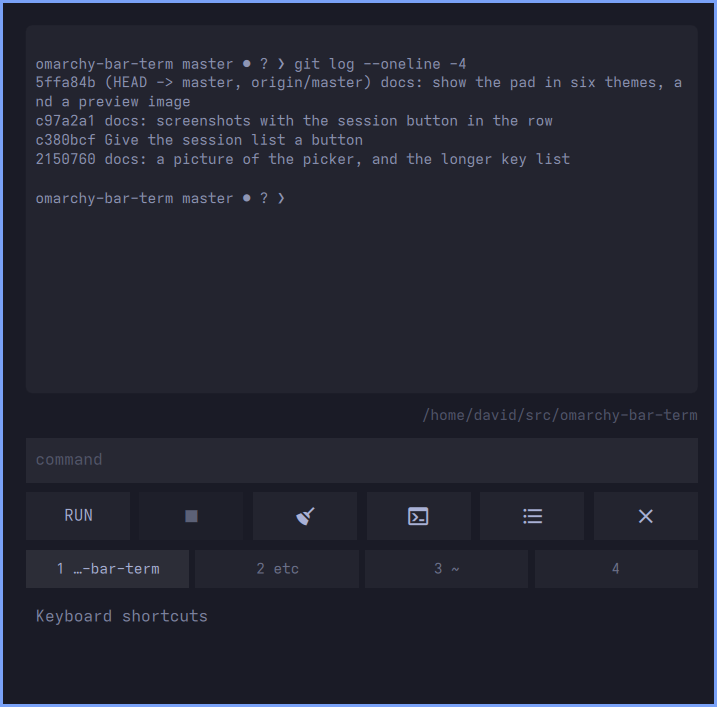
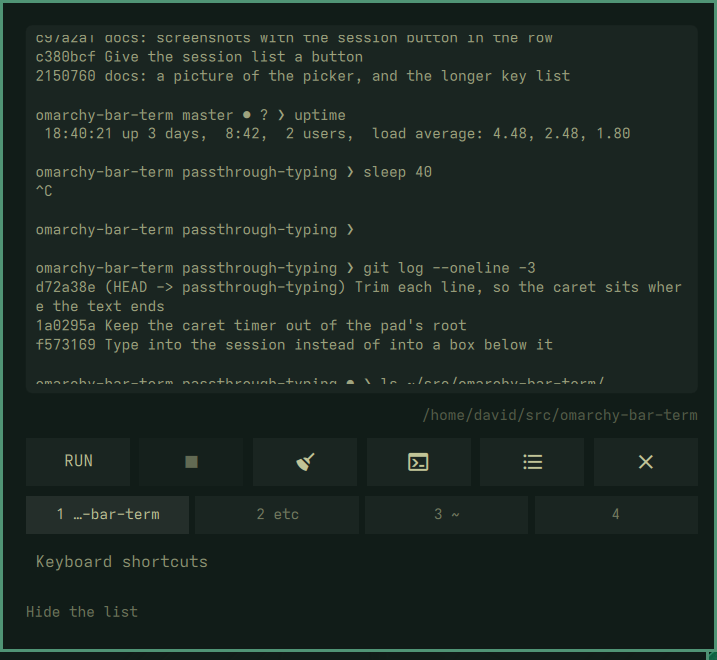
Let the broom clear the scrollback, and land on a whole line
Ctrl+L reaching the shell clears its screen, which leaves the pad showing the
200 lines it reads back: the button looked like it did nothing. The key still
passes through and does the shell's thing; the button now drops the scrollback
as well, which is what pressing a broom in a widget means.

The newest line was also being left half-drawn under the bottom edge, because
the lines wrap and a delegate's height is not known at the moment the model
changes. Positioning again on contentHeight fixes it.

Claude-Session: https://claude.ai/code/session_01NsuTX3xQbZ1pzCFMGiucjP

diff --git a/Bindings.qml b/Bindings.qml
@@ -18,7 +18,11 @@ Item {
   readonly property var keyMap: [
     { id: "run",      keys: [], hint: "Enter",  shell: true, label: "Run what you typed",    act: function() { panel.sendKey("Enter") } },
     { id: "kill",     keys: [], hint: "Ctrl+C", shell: true, label: "Interrupt",             act: function() { panel.sendKey("C-c") } },
-    { id: "clear",    keys: [], hint: "Ctrl+L", shell: true, label: "Clear the screen",      act: function() { panel.sendKey("C-l") } },
+    // The key and the button differ on purpose. Ctrl+L reaches the shell and
+    // clears its screen, which leaves the pad still showing the scrollback it
+    // reads back; the button drops the scrollback as well, which is what someone
+    // pressing a broom in a widget means by it.
+    { id: "clear",    keys: [], hint: "Ctrl+L", shell: true, label: "Clear the screen, and the scrollback with it", act: function() { panel.clearOutput() } },
     { id: "complete", keys: [], hint: "Tab",    shell: true, label: "Complete (the shell's)", act: function() { panel.sendKey("Tab") } },
     { id: "history",  keys: [], hint: "Up",     shell: true, label: "Previous command (the shell's)", act: function() { panel.sendKey("Up") } },
 

diff --git a/Pad.qml b/Pad.qml
@@ -101,6 +101,10 @@ KeyboardPanel {
         property bool followTail: true
         onMovementEnded: followTail = atYEnd
         onModelChanged: if (followTail) Qt.callLater(positionViewAtEnd)
+        // The lines wrap, so a delegate's height is not known when the model
+        // changes: position again once the content has actually been laid out,
+        // or the newest line is left half-drawn under the bottom edge.
+        onContentHeightChanged: if (followTail) Qt.callLater(positionViewAtEnd)
 
         delegate: PadText {
           panel: pad.panel

diff --git a/README.md b/README.md
@@ -77,8 +77,9 @@ Removing the plugin leaves your tmux sessions alone; they are yours, not the wid
   <img src="./assets/readme/section-use.svg" width="100%" alt="02 Use: run things from the bar">
 </p>
 
-Click the icon in the bar and type. The prompt has the keyboard as soon as the pad opens,
-so there is nothing to click first.
+Click the icon in the bar and type. The pad has the keyboard as soon as it opens and your
+keys go straight into the session, so it behaves like the terminal it is showing: there is
+nothing to click first, and nothing to learn that you did not already know.
 
 <a name="keyboard"></a>
 <p align="center">
@@ -86,28 +87,30 @@ so there is nothing to click first.
 </p>
 
 <p align="center">
-  <img src="./assets/readme/keyboard.svg" width="100%" alt="The keys the pad claims: Enter runs, Up and Down walk the history, Ctrl+C interrupts, Ctrl+L clears the screen, Ctrl+T attaches the session to a terminal, Ctrl+K restarts it, Ctrl+P lists sessions, Tab and Alt+1 to Alt+4 move between tabs, Escape closes">
+  <img src="./assets/readme/keyboard.svg" width="100%" alt="Alt is the pad's and everything else is the shell's: Alt+S lists sessions, Alt+T attaches one to a terminal, Alt+K restarts it, Alt and the arrows or numbers move between tabs, Escape closes; Tab completes, Enter runs, Up walks bash's history, and Ctrl+C, Ctrl+L, Ctrl+R and Ctrl+W do what they always do">
 </p>
 
 <details markdown="1">
 <summary>Every binding, as text</summary>
 
+**The pad's keys.** Alt, and Escape.
+
 | Key | What it does |
 |---|---|
-| `Enter` | Run the command |
-| `Up` | Previous command |
-| `Down` | Next command |
-| `Ctrl+C` | Interrupt the session |
-| `Ctrl+L` | Clear the screen |
-| `Ctrl+T` | Attach it to a terminal |
-| `Ctrl+K` | Restart this session |
-| `Ctrl+P` | Show another session in this tab |
-| `Tab` | Next tab |
+| `Alt+S` | Show another session in this tab |
+| `Alt+T` | Attach this session to a terminal |
+| `Alt+K` | Restart this session |
+| `Alt+←` `Alt+→` | Previous and next tab |
 | `Alt+1` … `Alt+4` | Jump to a tab |
-| `Esc` | Close |
+| `Esc` | Close the pad |
 
-Everything else you press is typing, which is why the list is mostly modified keys. The
-same actions are on the buttons under the prompt.
+**Everything else is the shell's**, typed into the session as you press it. `Tab`
+completes, `Enter` runs, `Up` walks *bash's* history, `Ctrl+R` searches it, `Ctrl+C`
+interrupts, `Ctrl+L` clears, `Ctrl+W` kills a word. There is no line editor of the
+widget's own to be worse than the one you already have.
+
+The buttons under the screen do the common ones for you, and are the half you do not have
+to remember.
 
 </details>
 
@@ -123,15 +126,16 @@ same actions are on the buttons under the prompt.
 <details markdown="1">
 <summary>What each tab keeps</summary>
 
-Its own directory, environment, command history and half-typed line. Switching away and
-back puts you exactly where you were.
+Its own directory, environment, command history and half-typed line -- all of them the
+session's rather than the widget's, so switching away and back puts you exactly where you
+were, and so does closing the pad, restarting the shell, or attaching in a terminal.
 
 A tab is labelled with the last part of its directory, shows a pulsing dot while something
 is running in it, and turns the urgent colour if that something failed while you were
 looking elsewhere. The bar icon pulses while *any* tab is running, which is the one thing
 the bar can tell you that the pad cannot.
 
-`Ctrl+K` throws a session away and starts it again, for when one has been left in a state
+`Alt+K` throws a session away and starts it again, for when one has been left in a state
 you would rather not untangle.
 
 </details>
@@ -141,7 +145,7 @@ you would rather not untangle.
   <img src="./assets/readme/sub-sessions.svg" width="100%" alt="02.3 Resuming a session you already have">
 </p>
 
-`Ctrl+P`, or the list button in the key row, shows every tmux session on the server,
+`Alt+S`, or the list button in the key row, shows every tmux session on the server,
 whoever made it, and points the current tab at the one you pick. A session you started in
 a terminal this morning shows up in the bar with its scrollback intact, and typing in the
 pad types into it.
@@ -166,7 +170,7 @@ it.
   <img src="./assets/readme/sub-attaching.svg" width="100%" alt="02.4 Attaching a session to a terminal">
 </p>
 
-`Ctrl+T` opens a terminal window attached to the session you are looking at, not a new
+`Alt+T` opens a terminal window attached to the session you are looking at, not a new
 shell: the window comes up showing exactly what the pad was showing, half-finished command
 and all. The pad closes as it goes, because it covers the screen and the new window would
 otherwise open behind it. Closing that window detaches; the session, and everything
@@ -238,11 +242,11 @@ o.bind("SUPER SHIFT", "T", "Bar terminal", "omarchy-shell shell toggle io.github
 
 The pad reads the session's screen a few times a second and draws it as plain text, so it
 is a good window onto a shell and a poor one onto a full-screen program: colours, cursor
-positioning and anything that redraws itself will look flat or half-finished. It is also a
-one-line prompt.
+positioning and anything that redraws itself will look flat or half-finished. Completion
+menus and `Ctrl+R` render as plain rows -- readable, but not pretty.
 
-Neither is a limit on what you can run. The session is a real shell, and `Ctrl+T` is
-always one key away.
+It is not a limit on what you can run. The session is a real shell, and `Alt+T` is always
+one key away.
 
 <a name="using-the-shim-directly"></a>
 <p align="center">

diff --git a/DEVELOPING.md b/DEVELOPING.md
@@ -84,10 +84,17 @@ pad; restart the shell.
   `~/.bashrc` and prepends one entry to `PROMPT_COMMAND` that writes `$?` to a file under
   `$XDG_RUNTIME_DIR/bar-term/`, named after the session. It must stay invisible: the user can be attached to that
   session in a terminal, and anything it printed would be theirs to look at.
-- **The prompt holds the keyboard the whole time the pad is open.** So `keyMap` is nearly
-  all modified keys: bind a bare letter and that letter becomes impossible to type into a
-  command. Enter, Up, Down and Esc are the exceptions, and they are keys a one-line field
-  has no use for.
+- **The keyboard divides on one rule: Alt is the pad's, everything else is the shell's.**
+  Keys the pad does not claim are typed into the session, which is what makes completion,
+  readline and bash's own history work instead of being imitated. Binding anything outside
+  Alt takes a key away from the shell, and the shell has a use for nearly all of them.
+- **Keystrokes are queued through one Process, never fire-and-forget.** Two detached calls
+  can land in either order, and a shell that receives "l" then "s" when you typed "ls" is
+  worse than a slow one. Consecutive characters coalesce into a single `type`.
+- **A Timer cannot be a direct child of the pad's root.** `KeyboardPanel`'s default
+  property is a list of items, so it fails to load with "Cannot assign object of type
+  QQmlTimer to list property contentItem" and the widget vanishes from the bar. Put
+  non-visual children inside an Item.
 - **Quoting crosses two layers.** What is typed goes through `bash -c` (Quickshell's
   Process) and then through `"$*"` in the shim into `tmux send-keys -l`, which types it
   literally. `Util.shellQuote` on the whole command line is what keeps pipes and quotes
